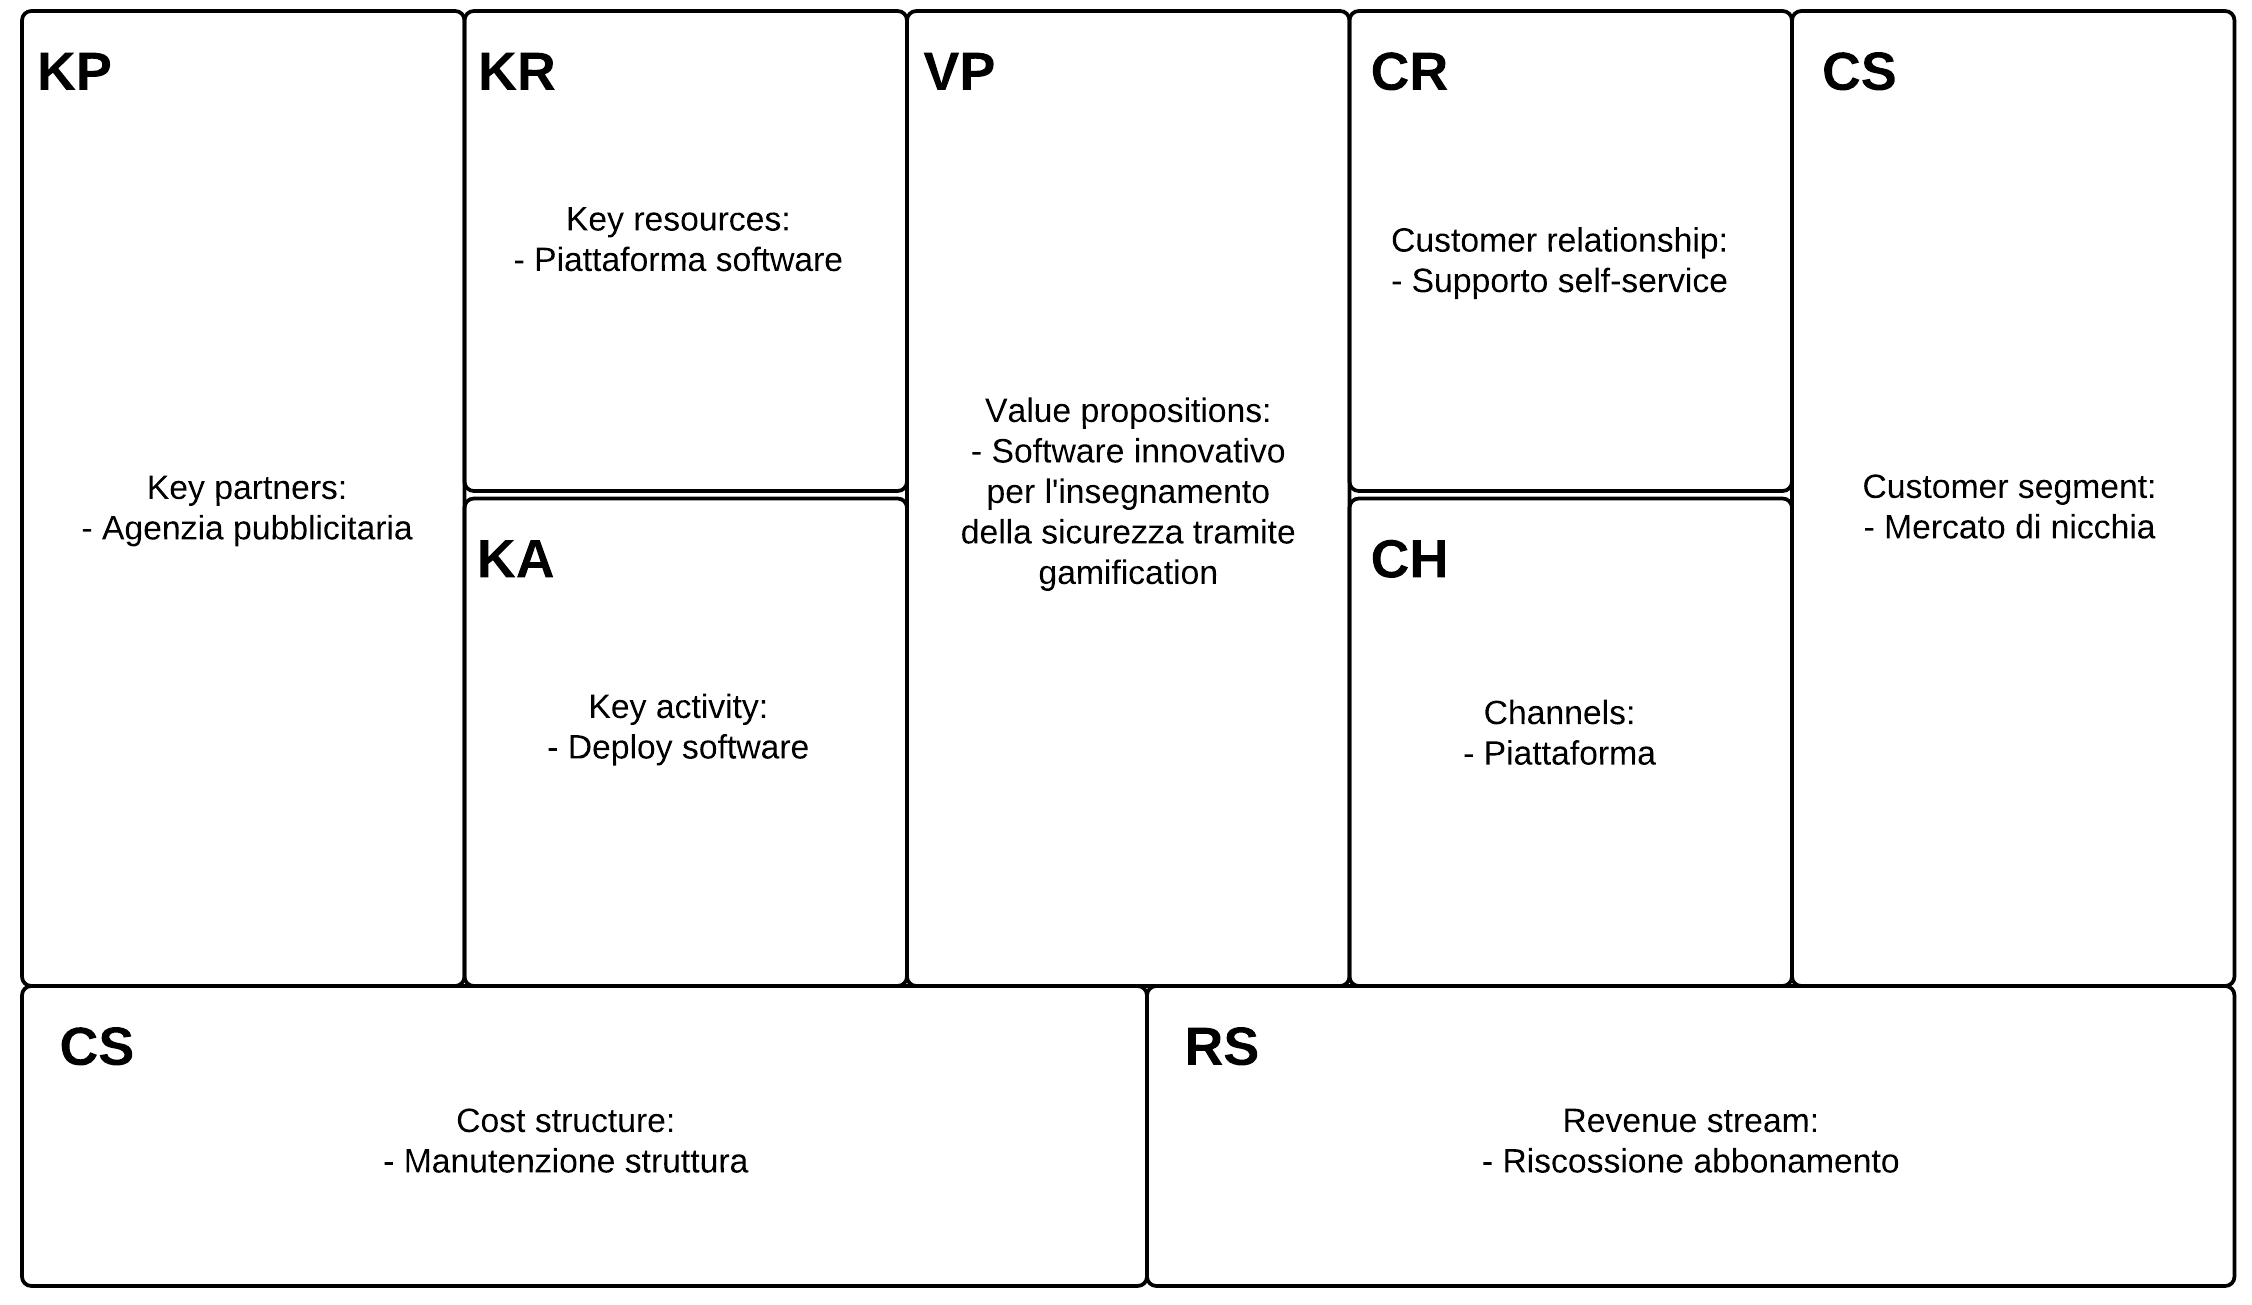
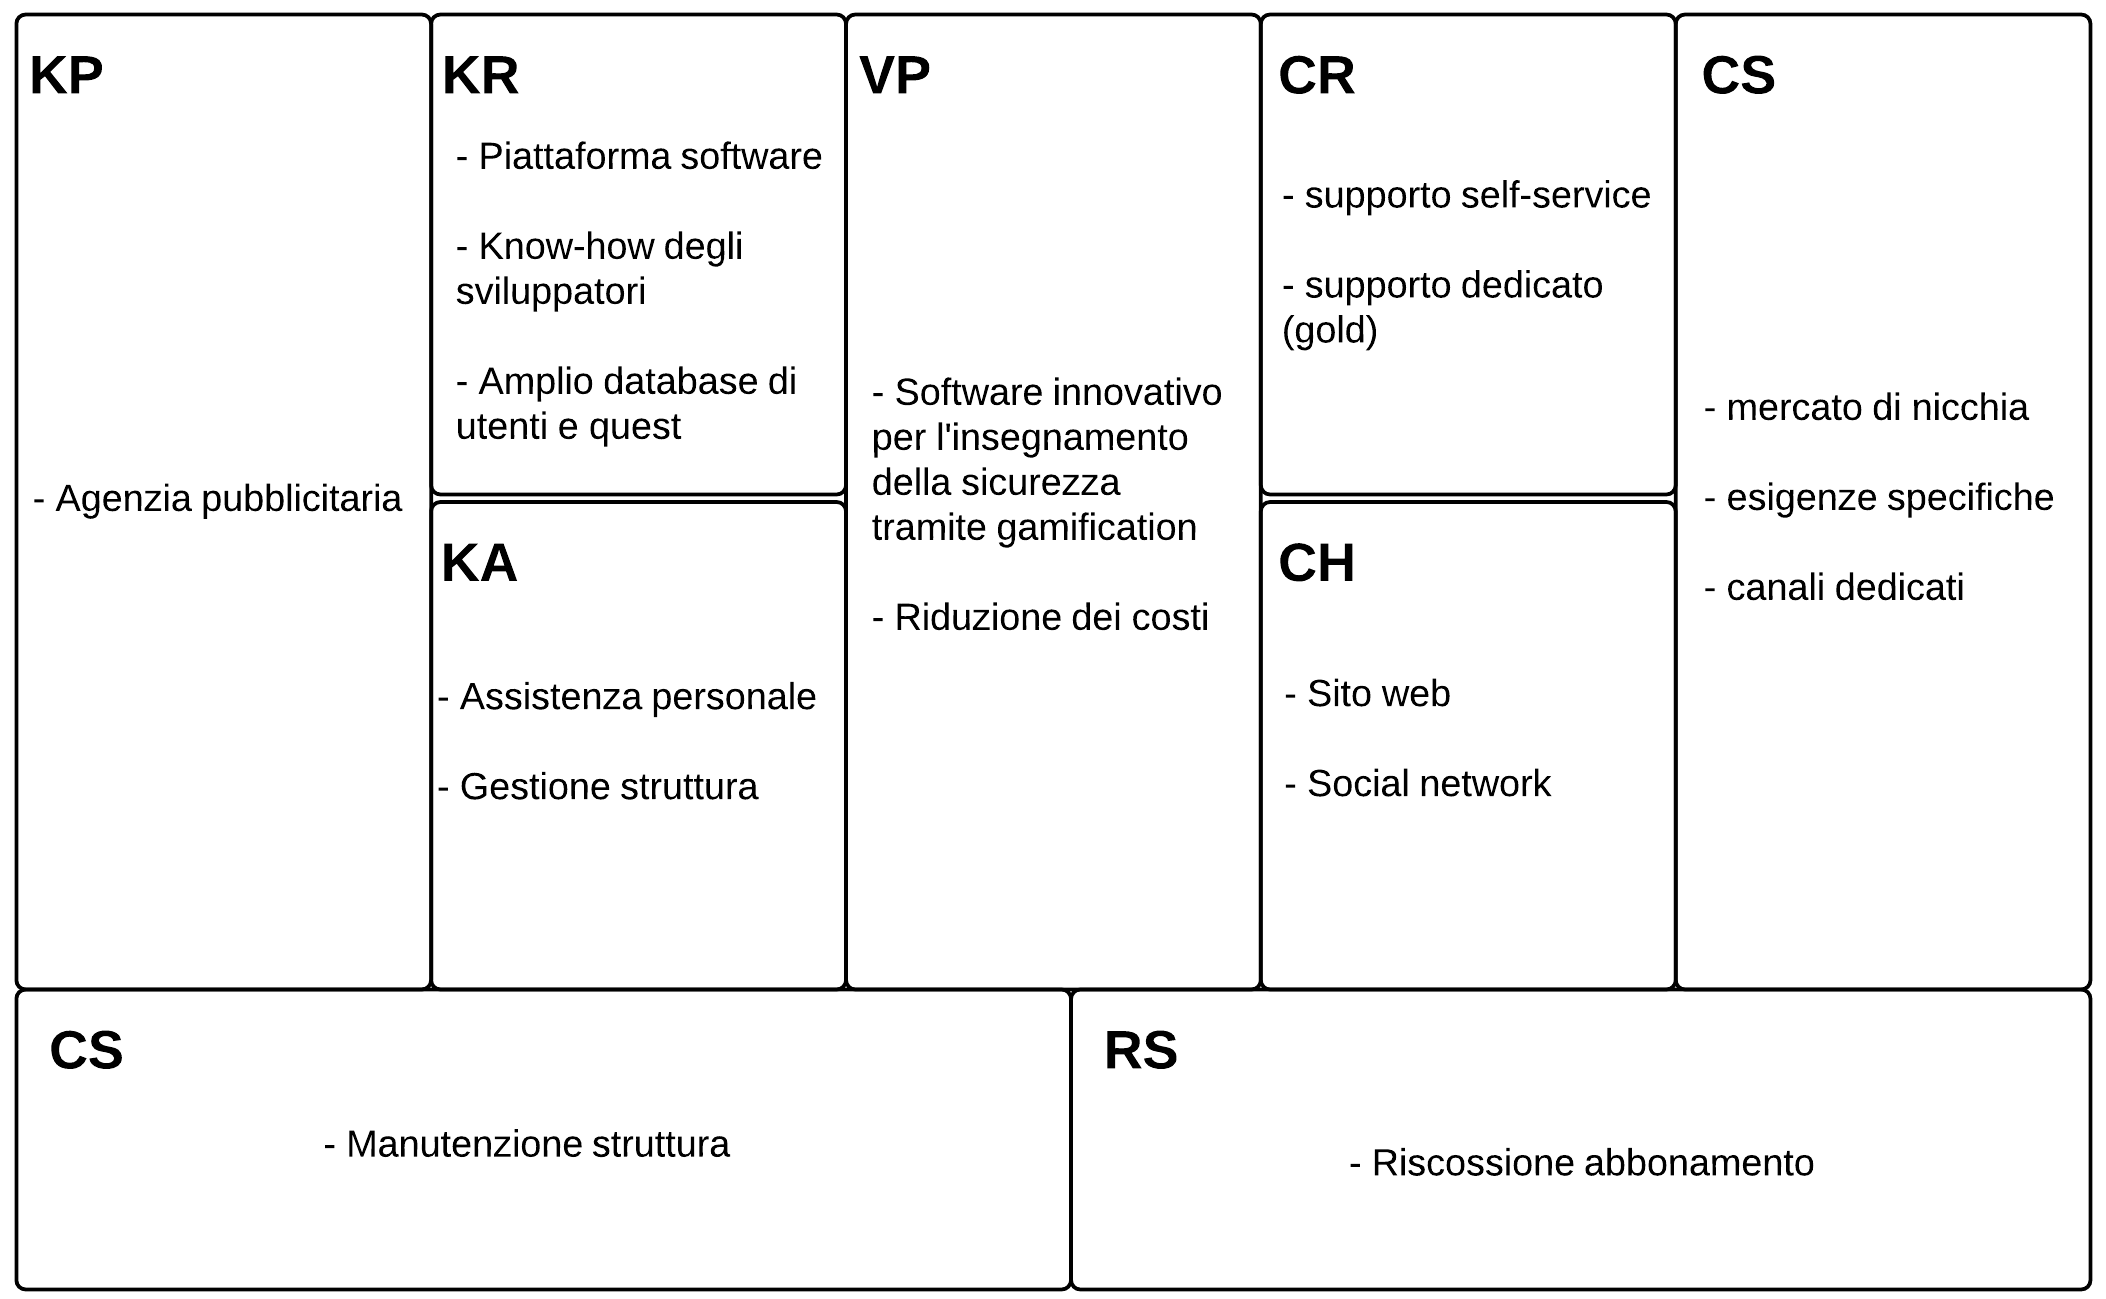
Sistemato cose e Cost S. in BM

diff --git a/5 business model/businessModel.tex b/5 business model/businessModel.tex
@@ -409,8 +409,22 @@ Attività importante è anche la consulenza ai clienti, sia quella personale sia
 Non dimentichiamo che comunque siamo un team di sviluppo software e che quindi un attività fondamentale è quella di aggiornare e migliorare continuamente il nostro codice, sia quello già esistente che quello futuro.
 
 \subsubsection{Key partners} 
-\subsubsection{Cost structure}
+Sono i partner dei quali ci avvaliamo per ottenere vantaggi sia economici che legati all'outsourcing. Vediamoli in dettaglio:
+\begin{itemize}
+\item Pubblicità: la pubblicità sarà in parte affidata e gestita da partner esterni, cosa più economica e conveniente che formare del personale interno.
+\item Infrastruttura hardware: la piattaforma hardware sarà fornita e custodita da società terze specializzate in questo tipo di business.
+\item Altre alleanze, sia di tipo strategico che per riduzione dei rischi non sono state programmate per adesso, principalmente per il poco sviluppo del mercato in questo ambito. Non escludiamo partnership con altre società per rafforzare il nostro business in futuro.
+\end{itemize}
 
+\subsubsection{Cost structure}
+È l'insieme delle spese che la nostra attività comporta, sia legate alle infrastrutture che al marketing che alla ricerca e sviluppo. Più è bassa in relazione alle entrate maggiore sarà il reddito della società, quindi si cerca di minimizzare le spese, spinti da un economia di costo più che da una da valore.
+\begin{itemize}
+\item Costi fissi: i costi fissi previsti per offrire il servizio al cliente sono principalmente quelli legati alla struttura fisica che mantiene attivo il servizio, quelli per il supporto post vendita e gli stipendi di tutti i membri del gruppo.
+\item Costi variabili: sono quelli legati alla parte di pubblicità, alle inserzioni e quelli legati alle partnership che eseguono lavori su commissione.
+\end{itemize}
+Seguiamo un economia di scala in quanto più clienti riusciamo a soddisfare con la nostra infrastruttura e meno ci costerà mantenerla in proporzione ai ricavi. 
+
+\subsubsection{Canvas}
 \begin{figure}[H]
 \centering
 \includegraphics[scale=0.8]{images/BM.png}
